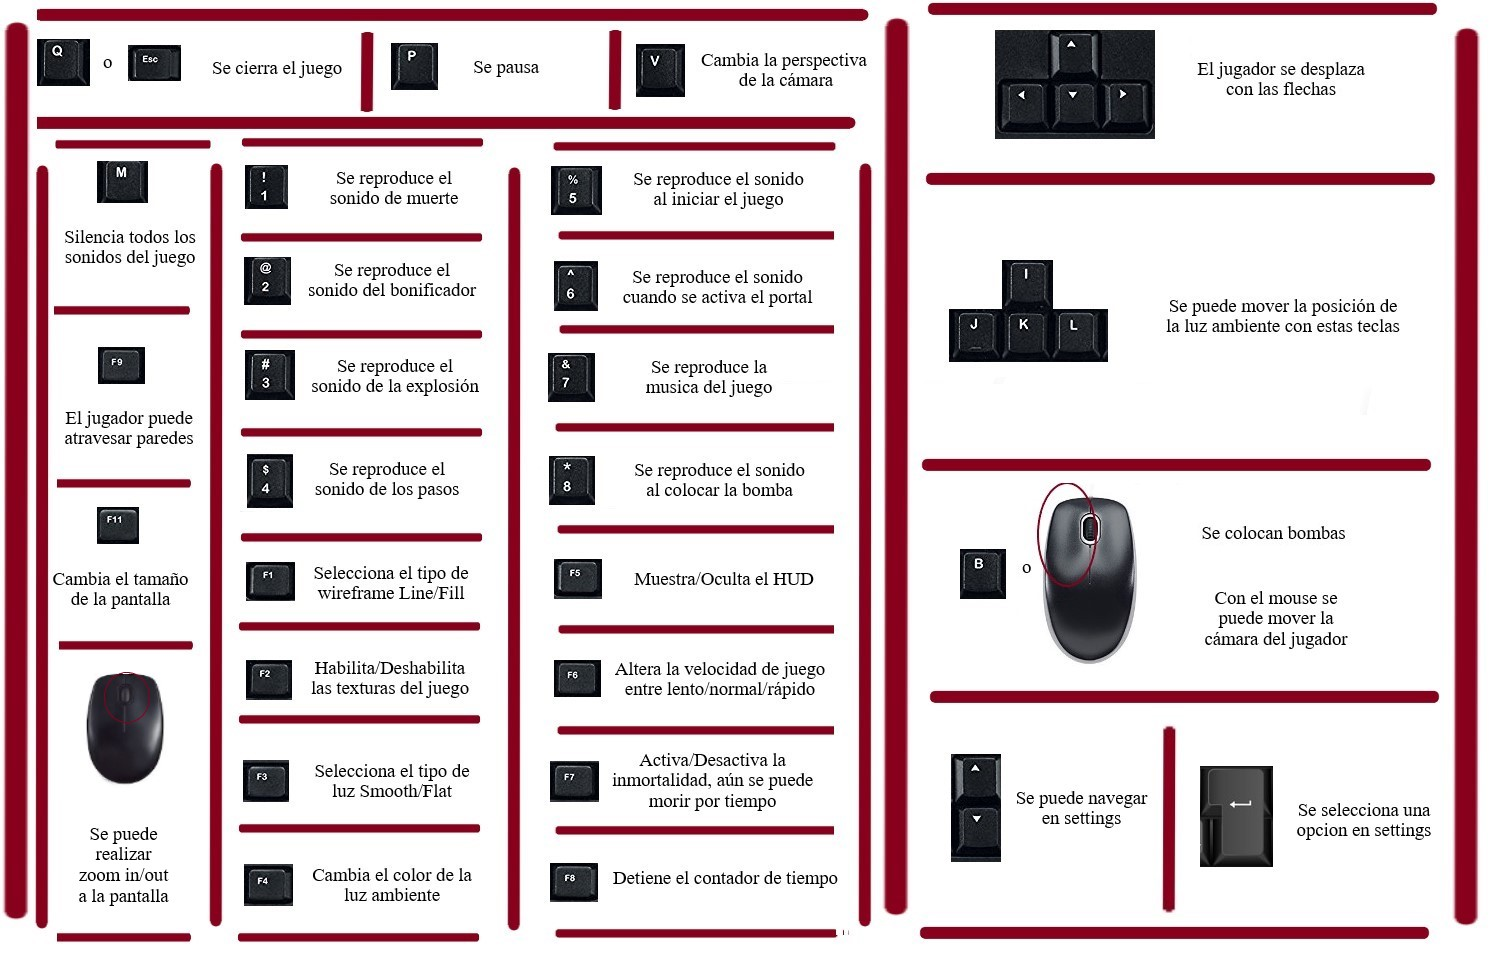
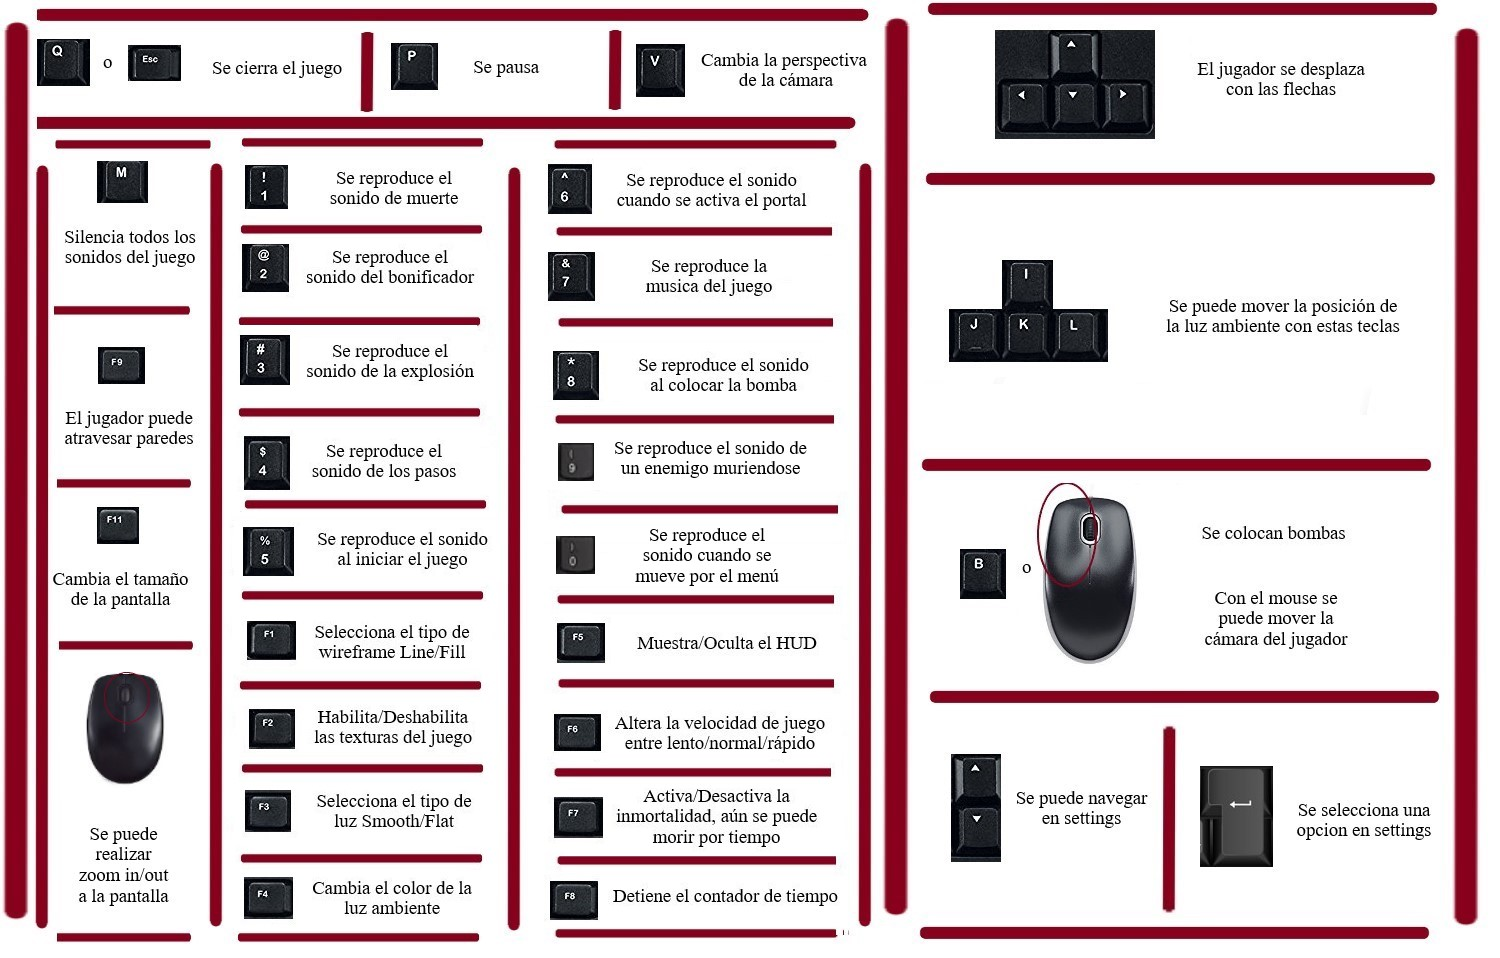
agregar sonidos a ayuda, arreglo de bug

Changed region(s): [[0.368, 0.1211, 0.552, 0.9687], [0.1533, 0.2119, 0.3373, 0.9687]]

diff --git a/Bomberman/src/controlador.cpp b/Bomberman/src/controlador.cpp
@@ -38,6 +38,8 @@ void Controlador::inicializar_juego() {
         jugador->setPosicionX(tile_size / 2);
         jugador->setPosicionY(0);
         jugador->setPosicionZ(tile_size / 2);
+        jugador->setCantBomba(0);
+        jugador->setMoverBomba(false);
     }
 
     for (int i = 0; i < largoTablero; i++) {
@@ -338,6 +340,7 @@ void Controlador::manejarEventos() {
                     controlador_interfaz->opcion_siguiente();
                     break;
                 case SDLK_RETURN:
+                    controlador_audio->playAudio(sonido::menu);
                     tipo_opcion opcion_seleccionada = controlador_interfaz->getOpcionSeleccionada();
                     switch (opcion_seleccionada) {
                     case COMENZAR_JUEGO:
@@ -516,6 +519,12 @@ void Controlador::manejarEventos() {
                     break;
                 case SDLK_8:
                     controlador_audio->playMecha({ 0,0,0 });
+                    break;
+                case SDLK_9:
+                    controlador_audio->playAudio(sonido::muerteEnemigo);
+                    break;
+                case SDLK_0:
+                    controlador_audio->playAudio(sonido::menu);
                     break;
                 case SDLK_m://mute
                     controlador_audio->silenciarAudio();
